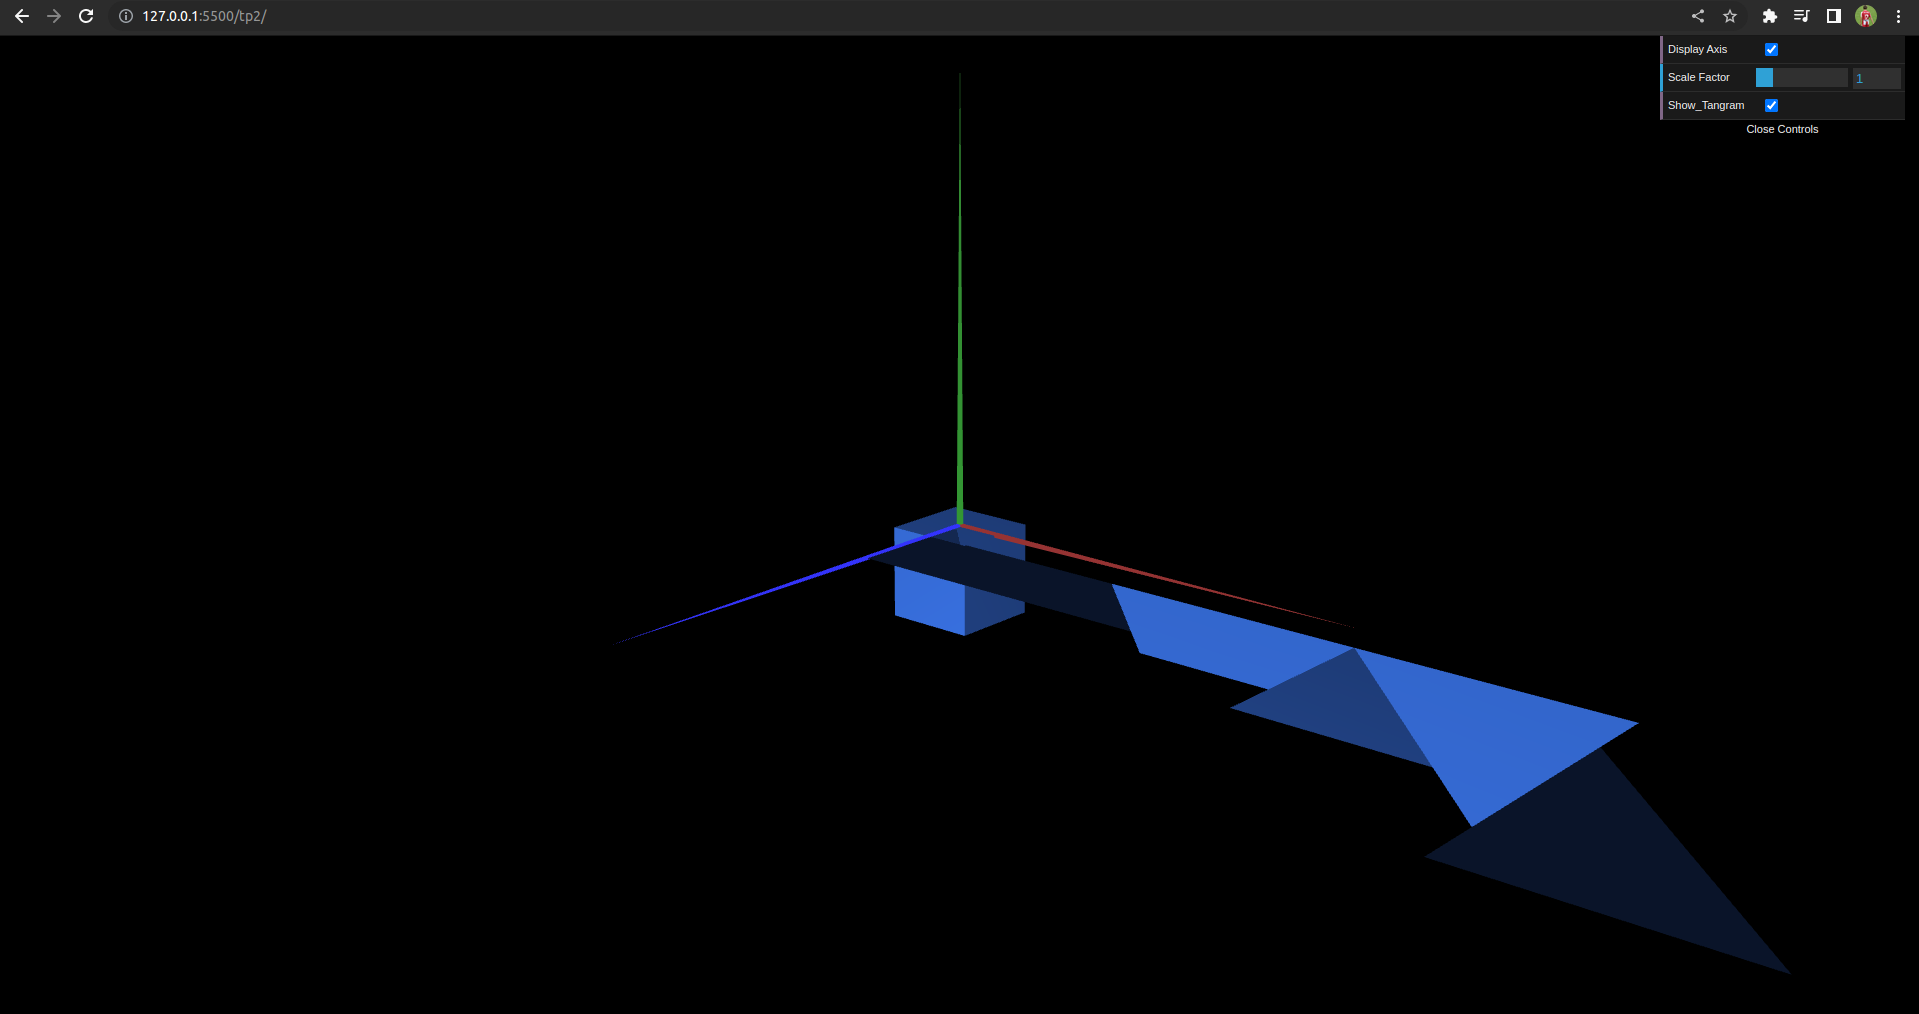
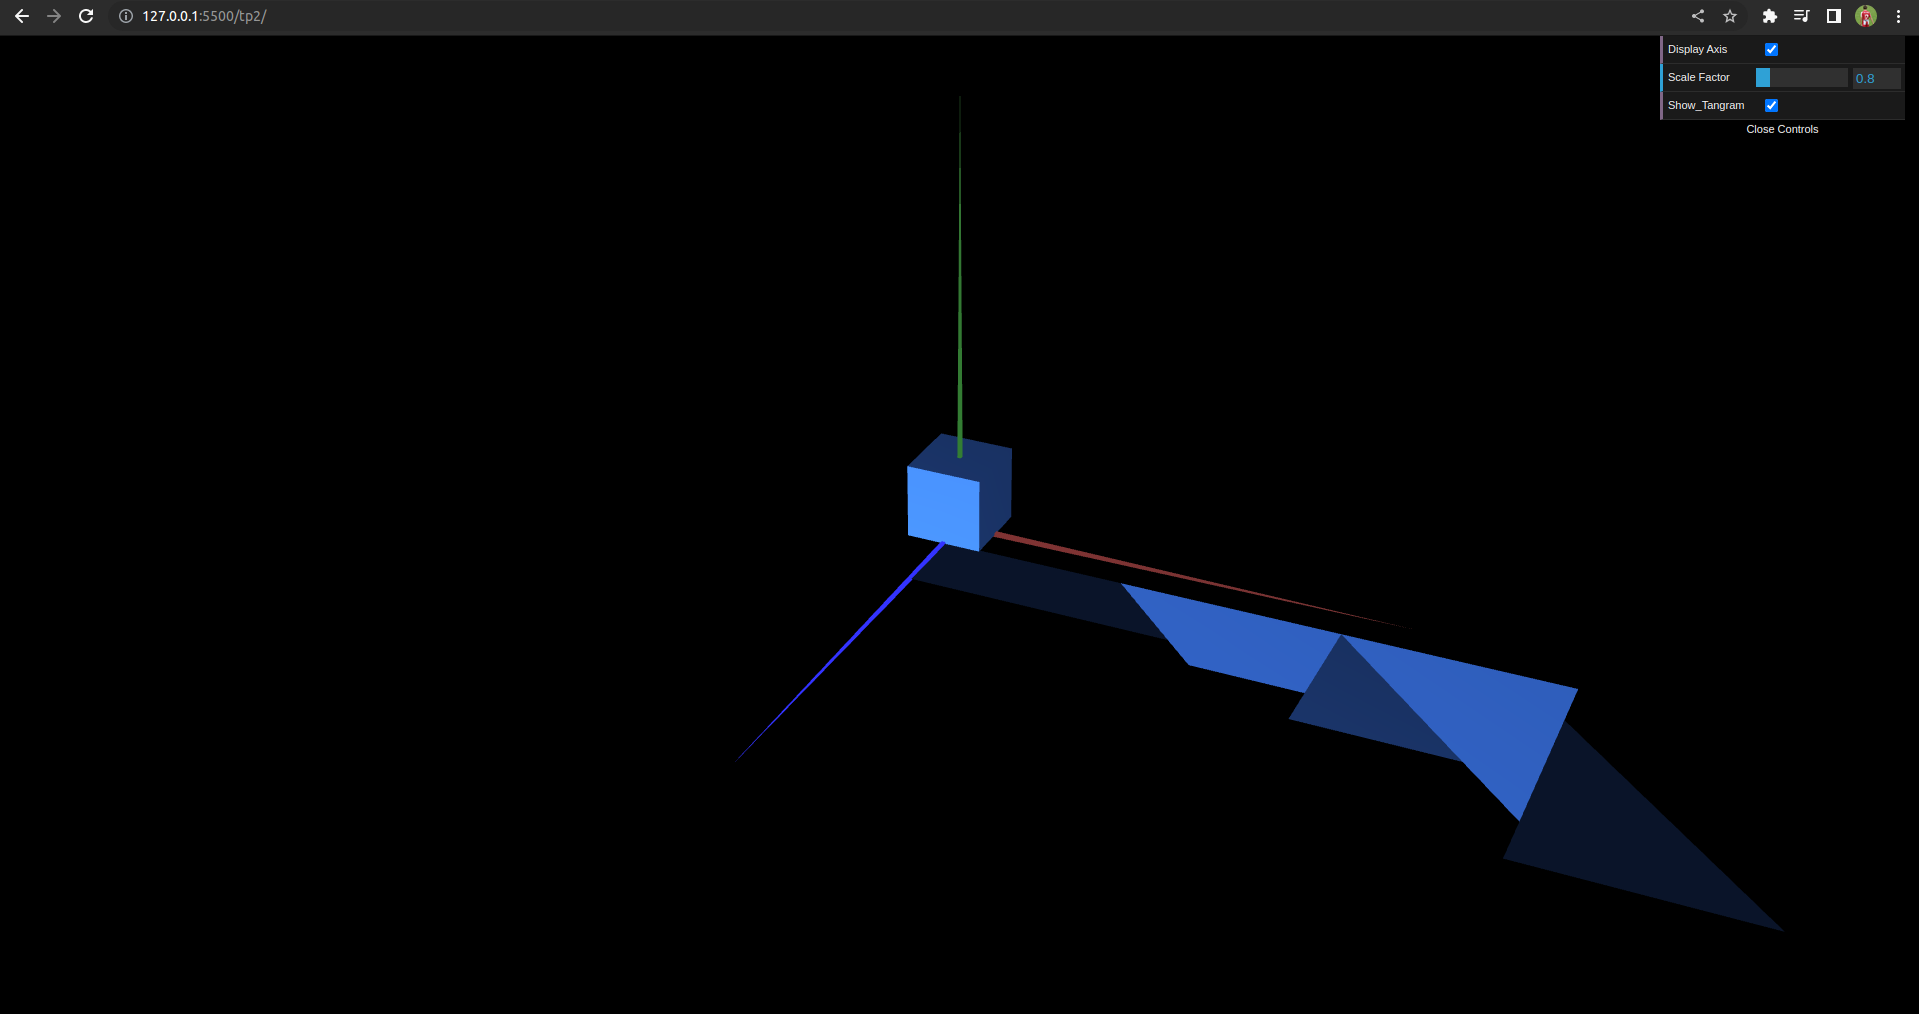
tp2-3

diff --git a/tp2/MyScene.js b/tp2/MyScene.js
@@ -111,8 +111,8 @@ export class MyScene extends CGFscene {
 
     this.translate(0, 0.5, 0)
 
-    this.unitCube.display()
-    //this.unitCubeQuad.display()
+    //this.unitCube.display()
+    this.unitCubeQuad.display()
 
     this.popMatrix()
 
